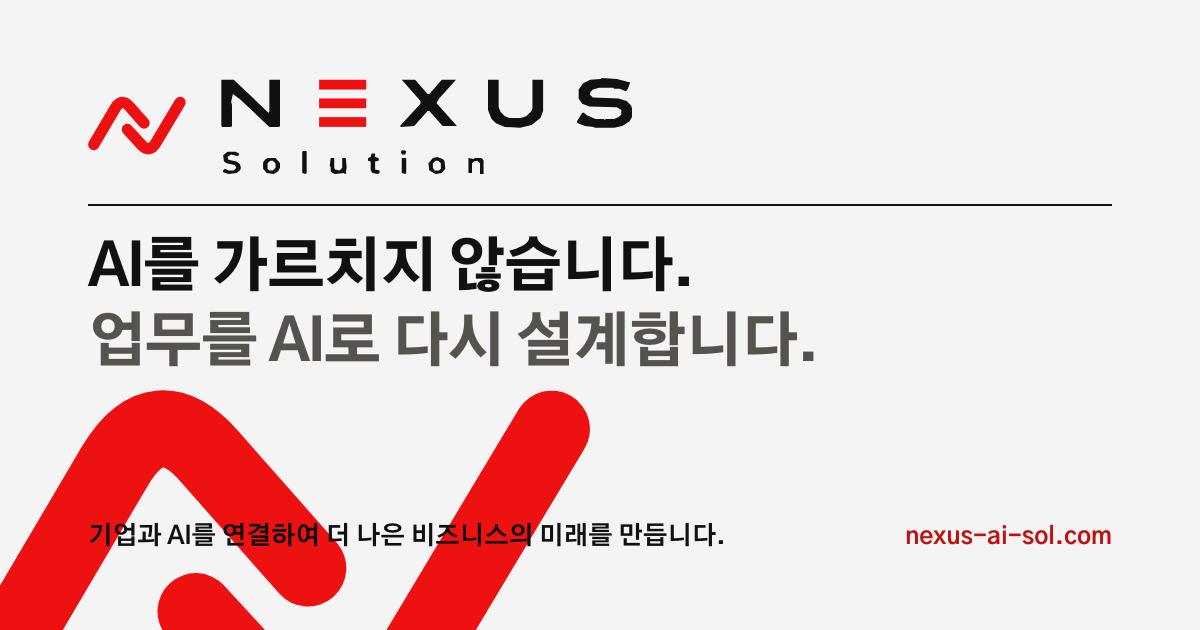
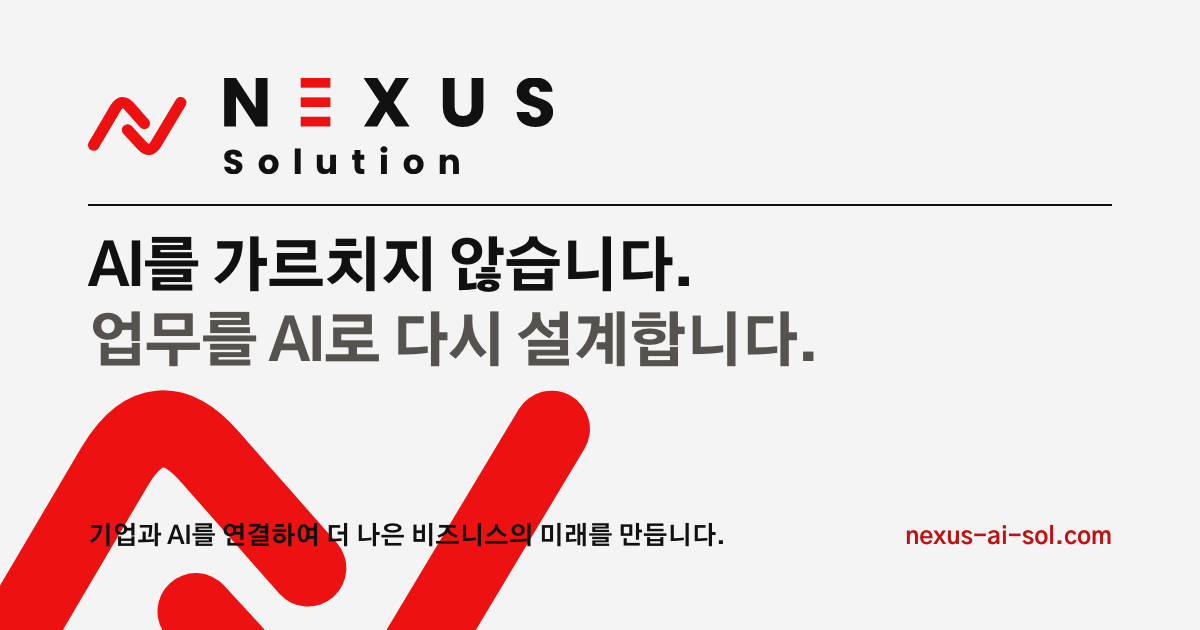
Typeset the wordmark in Poppins Bold outlines
The letters were still traced polygons, so their curves stayed faceted —
most visible in the S and in white on the dark theme. Matching the
original face proved unreliable (NEXUS scanned as a grotesque, Solution
as a geometric), so on request switch to a chosen face rather than
guessing.

Poppins Bold: geometric and monoline, echoing the round-capped mark, and
heavy enough to hold the original's presence at small sizes. Glyphs are
extracted to paths with fontTools, so the files carry no font dependency.
The red E now takes its width from the face's own E and divides the cap
height into five equal bands.

Changed region(s): [[0.185, 0.1206, 0.5242, 0.2111], [0.185, 0.2413, 0.4008, 0.2714], [0.1233, 0.181, 0.1542, 0.2111]]

diff --git a/index.html b/index.html
@@ -234,13 +234,7 @@ footer {
 
   <header>
     <div class="brand-mark">
-      <svg class="logo" xmlns="http://www.w3.org/2000/svg" viewBox="0 0 612 108" role="img" aria-label="Nexus Solution">
-<g transform="translate(-19 -20)"><g fill="none" stroke="#EE1111" stroke-width="12.78" stroke-linecap="round" stroke-linejoin="round"><path d="M25.6 94.8 L49.8 53.7 Q56.8 42 65.7 52.2 L82 70.7"/><path d="M63.3 77.9 L78.9 94.9 Q88.2 105 95.2 93.2 L122.6 47.5"/></g></g>
-  <g transform="translate(128 -145)">
-    <path fill="currentColor" fill-rule="evenodd" d="M 300.0 235.0 L 300.0 252.0 L 304.0 252.0 L 304.0 241.0 L 306.0 239.0 L 310.0 238.0 L 313.0 241.0 L 313.0 253.0 L 317.0 253.0 L 317.0 238.0 L 316.0 236.0 L 314.0 235.0 L 307.0 235.0 L 306.0 236.0 Z M 225.0 235.0 L 225.0 252.0 L 229.0 253.0 L 230.0 252.0 L 230.0 235.0 Z M 145.0 235.0 L 144.0 244.0 L 145.0 245.0 L 145.0 250.0 L 147.0 252.0 L 150.0 253.0 L 160.0 252.0 L 161.0 253.0 L 163.0 252.0 L 162.0 251.0 L 163.0 246.0 L 162.0 235.0 L 158.0 235.0 L 158.0 246.0 L 155.0 249.0 L 150.0 248.0 L 149.0 246.0 L 149.0 235.0 Z M 71.0 237.0 L 69.0 240.0 L 69.0 247.0 L 73.0 252.0 L 81.0 253.0 L 86.0 250.0 L 88.0 246.0 L 88.0 241.0 L 83.0 235.0 L 74.0 235.0 Z M 77.0 238.0 L 80.0 238.0 L 83.0 241.0 L 83.0 246.0 L 80.0 249.0 L 76.0 249.0 L 74.0 247.0 L 74.0 241.0 Z M 265.0 234.0 L 260.0 235.0 L 255.0 241.0 L 256.0 249.0 L 263.0 253.0 L 270.0 252.0 L 274.0 247.0 L 273.0 238.0 L 271.0 236.0 Z M 263.0 238.0 L 266.0 238.0 L 269.0 241.0 L 269.0 247.0 L 267.0 249.0 L 262.0 249.0 L 260.0 246.0 L 260.0 241.0 Z M 191.0 230.0 L 190.0 234.0 L 187.0 235.0 L 187.0 238.0 L 190.0 239.0 L 190.0 249.0 L 192.0 252.0 L 198.0 253.0 L 200.0 252.0 L 200.0 249.0 L 195.0 248.0 L 195.0 239.0 L 199.0 238.0 L 199.0 235.0 L 195.0 234.0 L 195.0 230.0 Z M 29.0 228.0 L 24.0 232.0 L 25.0 239.0 L 28.0 241.0 L 37.0 243.0 L 39.0 246.0 L 36.0 249.0 L 30.0 249.0 L 26.0 247.0 L 24.0 249.0 L 24.0 251.0 L 30.0 253.0 L 39.0 252.0 L 43.0 249.0 L 44.0 246.0 L 43.0 242.0 L 39.0 239.0 L 30.0 237.0 L 29.0 234.0 L 33.0 231.0 L 41.0 233.0 L 42.0 230.0 L 38.0 228.0 Z M 114.0 227.0 L 113.0 228.0 L 113.0 252.0 L 117.0 253.0 L 118.0 252.0 L 118.0 227.0 Z M 226.0 226.0 L 224.0 228.0 L 225.0 231.0 L 229.0 231.0 L 230.0 227.0 Z M 322.0 147.0 L 322.0 181.0 L 326.0 191.0 L 331.0 196.0 L 341.0 200.0 L 358.0 201.0 L 371.0 198.0 L 381.0 190.0 L 384.0 182.0 L 384.0 147.0 L 372.0 147.0 L 372.0 179.0 L 371.0 182.0 L 365.0 188.0 L 359.0 190.0 L 346.0 190.0 L 341.0 188.0 L 336.0 183.0 L 334.0 178.0 L 334.0 147.0 Z M 225.0 147.0 L 246.0 171.0 L 246.0 174.0 L 223.0 199.0 L 224.0 200.0 L 239.0 199.0 L 254.0 182.0 L 256.0 182.0 L 271.0 199.0 L 287.0 199.0 L 264.0 173.0 L 267.0 168.0 L 286.0 147.0 L 270.0 147.0 L 256.0 163.0 L 254.0 163.0 L 240.0 147.0 Z M 22.0 147.0 L 22.0 199.0 L 23.0 200.0 L 33.0 200.0 L 34.0 199.0 L 34.0 175.0 L 33.0 172.0 L 35.0 163.0 L 43.0 169.0 L 76.0 200.0 L 87.0 200.0 L 88.0 199.0 L 88.0 147.0 L 76.0 147.0 L 76.0 183.0 L 75.0 184.0 L 36.0 147.0 Z M 429.0 151.0 L 424.0 158.0 L 424.0 168.0 L 428.0 174.0 L 436.0 177.0 L 467.0 178.0 L 472.0 181.0 L 472.0 186.0 L 469.0 189.0 L 464.0 191.0 L 455.0 191.0 L 453.0 192.0 L 452.0 191.0 L 443.0 191.0 L 433.0 187.0 L 430.0 184.0 L 428.0 184.0 L 422.0 194.0 L 423.0 196.0 L 431.0 199.0 L 441.0 200.0 L 442.0 201.0 L 464.0 201.0 L 473.0 199.0 L 481.0 194.0 L 484.0 189.0 L 484.0 179.0 L 483.0 176.0 L 478.0 171.0 L 469.0 168.0 L 440.0 167.0 L 437.0 164.0 L 437.0 161.0 L 440.0 158.0 L 447.0 156.0 L 463.0 156.0 L 464.0 157.0 L 470.0 157.0 L 477.0 160.0 L 479.0 158.0 L 482.0 150.0 L 467.0 146.0 L 450.0 145.0 L 449.0 146.0 L 437.0 147.0 Z"/>
-    <g fill="#EE1111"><rect x="132" y="147" width="53" height="11"/><rect x="132" y="168" width="53" height="11"/><rect x="132" y="189" width="53" height="11"/></g>
-  </g>
-      </svg>
+      <svg class="logo" xmlns="http://www.w3.org/2000/svg" viewBox="0 0 518.5 107.0" role="img" aria-label="Nexus Solution"><g transform="translate(-19.21 -20.00)"><g fill="none" stroke="#EE1111" stroke-width="12.78" stroke-linecap="round" stroke-linejoin="round"><path d="M25.6 94.8 L49.8 53.7 Q56.8 42 65.7 52.2 L82 70.7"/><path d="M63.3 77.9 L78.9 94.9 Q88.2 105 95.2 93.2 L122.6 47.5"/></g></g><g transform="translate(129.78 -146.00)"><g fill="currentColor"><path d="M70.3076923076923 200.0H57.15384615384616L35.15384615384615 166.69230769230768V200.0H22.0V146.0H35.15384615384615L57.15384615384616 179.46153846153845V146.0H70.3076923076923Z"/><path d="M213.38461538461542 200.0 202.38461538461542 183.46153846153845 192.69230769230774 200.0H177.7692307692308L195.07692307692312 172.53846153846155L177.38461538461542 146.0H192.69230769230774L203.53846153846158 162.30769230769232L213.07692307692312 146.0H228.00000000000006L210.84615384615387 173.23076923076923L228.69230769230774 200.0Z"/><path d="M278.84615384615387 146.0V178.30769230769232Q278.84615384615387 183.15384615384616 281.2307692307693 185.76923076923077Q283.61538461538464 188.3846153846154 288.2307692307693 188.3846153846154Q292.84615384615387 188.3846153846154 295.3076923076924 185.76923076923077Q297.76923076923083 183.15384615384616 297.76923076923083 178.30769230769232V146.0H310.92307692307696V178.23076923076923Q310.92307692307696 185.46153846153845 307.8461538461539 190.46153846153845Q304.76923076923083 195.46153846153845 299.5769230769231 198.0Q294.3846153846154 200.53846153846155 288.00000000000006 200.53846153846155Q281.61538461538464 200.53846153846155 276.5769230769231 198.03846153846155Q271.53846153846155 195.53846153846155 268.61538461538464 190.5Q265.69230769230774 185.46153846153845 265.69230769230774 178.23076923076923V146.0Z"/><path d="M347.92307692307696 183.84615384615384H361.92307692307696Q362.2307692307693 186.84615384615384 364.00000000000006 188.4230769230769Q365.76923076923083 190.0 368.61538461538464 190.0Q371.5384615384616 190.0 373.2307692307693 188.65384615384616Q374.92307692307696 187.30769230769232 374.92307692307696 184.92307692307693Q374.92307692307696 182.92307692307693 373.5769230769231 181.61538461538464Q372.2307692307693 180.30769230769232 370.26923076923083 179.46153846153845Q368.3076923076924 178.6153846153846 364.69230769230774 177.53846153846155Q359.4615384615385 175.92307692307693 356.1538461538462 174.30769230769232Q352.84615384615387 172.69230769230768 350.46153846153845 169.53846153846155Q348.0769230769231 166.3846153846154 348.0769230769231 161.30769230769232Q348.0769230769231 153.76923076923077 353.53846153846155 149.5Q359.00000000000006 145.23076923076923 367.76923076923083 145.23076923076923Q376.69230769230774 145.23076923076923 382.1538461538462 149.5Q387.61538461538464 153.76923076923077 388.00000000000006 161.3846153846154H373.76923076923083Q373.61538461538464 158.76923076923077 371.84615384615387 157.26923076923077Q370.0769230769231 155.76923076923077 367.3076923076924 155.76923076923077Q364.92307692307696 155.76923076923077 363.4615384615385 157.03846153846155Q362.00000000000006 158.30769230769232 362.00000000000006 160.69230769230768Q362.00000000000006 163.30769230769232 364.4615384615385 164.76923076923077Q366.92307692307696 166.23076923076923 372.1538461538462 167.9230769230769Q377.3846153846154 169.69230769230768 380.6538461538462 171.3076923076923Q383.92307692307696 172.9230769230769 386.3076923076924 176.0Q388.69230769230774 179.07692307692307 388.69230769230774 183.92307692307693Q388.69230769230774 188.53846153846155 386.3461538461539 192.30769230769232Q384.00000000000006 196.07692307692307 379.53846153846155 198.30769230769232Q375.0769230769231 200.53846153846155 369.00000000000006 200.53846153846155Q363.0769230769231 200.53846153846155 358.3846153846154 198.6153846153846Q353.69230769230774 196.69230769230768 350.8846153846154 192.9230769230769Q348.0769230769231 189.15384615384616 347.92307692307696 183.84615384615384Z"/><path d="M22.0 244.92307692307693H29.0Q29.153846153846153 246.42307692307693 30.038461538461537 247.21153846153845Q30.92307692307692 248.0 32.34615384615385 248.0Q33.80769230769231 248.0 34.65384615384615 247.3269230769231Q35.5 246.65384615384616 35.5 245.46153846153845Q35.5 244.46153846153845 34.82692307692308 243.80769230769232Q34.15384615384615 243.15384615384616 33.17307692307692 242.73076923076923Q32.19230769230769 242.30769230769232 30.384615384615383 241.76923076923077Q27.769230769230766 240.96153846153845 26.115384615384613 240.15384615384613Q24.46153846153846 239.34615384615384 23.269230769230766 237.76923076923077Q22.076923076923077 236.19230769230768 22.076923076923077 233.65384615384616Q22.076923076923077 229.8846153846154 24.807692307692307 227.75Q27.538461538461537 225.6153846153846 31.92307692307692 225.6153846153846Q36.38461538461539 225.6153846153846 39.11538461538461 227.75Q41.84615384615385 229.8846153846154 42.03846153846153 233.69230769230768H34.92307692307692Q34.84615384615385 232.3846153846154 33.96153846153847 231.6346153846154Q33.07692307692308 230.8846153846154 31.692307692307693 230.8846153846154Q30.5 230.8846153846154 29.76923076923077 231.51923076923077Q29.03846153846154 232.15384615384616 29.03846153846154 233.34615384615384Q29.03846153846154 234.65384615384616 30.26923076923077 235.3846153846154Q31.5 236.1153846153846 34.11538461538461 236.96153846153845Q36.730769230769226 237.84615384615384 38.36538461538461 238.65384615384613Q40.0 239.46153846153845 41.19230769230769 241.0Q42.38461538461539 242.53846153846155 42.38461538461539 244.96153846153845Q42.38461538461539 247.26923076923077 41.21153846153846 249.15384615384616Q40.03846153846153 251.03846153846155 37.80769230769231 252.15384615384616Q35.57692307692308 253.26923076923077 32.53846153846154 253.26923076923077Q29.576923076923077 253.26923076923077 27.23076923076923 252.30769230769232Q24.884615384615383 251.34615384615384 23.48076923076923 249.46153846153845Q22.076923076923077 247.57692307692307 22.0 244.92307692307693Z"/><path d="M60.38461538461539 242.26923076923077Q60.38461538461539 238.96153846153845 61.84615384615385 236.44230769230768Q63.30769230769231 233.92307692307693 65.84615384615384 232.5769230769231Q68.38461538461539 231.23076923076923 71.53846153846153 231.23076923076923Q74.6923076923077 231.23076923076923 77.23076923076923 232.5769230769231Q79.76923076923077 233.92307692307693 81.23076923076923 236.44230769230768Q82.6923076923077 238.96153846153845 82.6923076923077 242.26923076923077Q82.6923076923077 245.57692307692307 81.21153846153845 248.09615384615384Q79.73076923076923 250.6153846153846 77.17307692307692 251.96153846153845Q74.61538461538461 253.30769230769232 71.46153846153847 253.30769230769232Q68.3076923076923 253.30769230769232 65.78846153846153 251.96153846153845Q63.26923076923077 250.6153846153846 61.82692307692308 248.1153846153846Q60.38461538461539 245.6153846153846 60.38461538461539 242.26923076923077ZM76.0 242.26923076923077Q76.0 239.69230769230768 74.71153846153845 238.30769230769232Q73.42307692307692 236.92307692307693 71.53846153846153 236.92307692307693Q69.61538461538461 236.92307692307693 68.34615384615384 238.28846153846155Q67.07692307692308 239.65384615384616 67.07692307692308 242.26923076923077Q67.07692307692308 244.84615384615384 68.32692307692308 246.23076923076923Q69.57692307692308 247.6153846153846 71.46153846153847 247.6153846153846Q73.34615384615384 247.6153846153846 74.67307692307692 246.23076923076923Q76.0 244.84615384615384 76.0 242.26923076923077Z"/><path d="M107.26923076923077 224.53846153846155V253.0H100.6923076923077V224.53846153846155Z"/><path d="M146.65384615384616 231.53846153846155V253.0H140.0769230769231V250.07692307692307Q139.0769230769231 251.5 137.36538461538464 252.3653846153846Q135.65384615384616 253.23076923076923 133.5769230769231 253.23076923076923Q131.1153846153846 253.23076923076923 129.23076923076923 252.1346153846154Q127.34615384615385 251.03846153846155 126.30769230769232 248.96153846153845Q125.26923076923077 246.8846153846154 125.26923076923077 244.07692307692307V231.53846153846155H131.80769230769232V243.19230769230768Q131.80769230769232 245.34615384615384 132.92307692307693 246.53846153846155Q134.03846153846155 247.73076923076923 135.92307692307693 247.73076923076923Q137.84615384615384 247.73076923076923 138.96153846153845 246.53846153846155Q140.0769230769231 245.34615384615384 140.0769230769231 243.19230769230768V231.53846153846155Z"/><path d="M178.19230769230768 247.42307692307693V253.0H174.84615384615384Q171.26923076923077 253.0 169.26923076923077 251.25Q167.26923076923077 249.5 167.26923076923077 245.53846153846155V237.0H164.65384615384616V231.53846153846155H167.26923076923077V226.30769230769232H173.84615384615384V231.53846153846155H178.15384615384616V237.0H173.84615384615384V245.6153846153846Q173.84615384615384 246.57692307692307 174.30769230769232 247.0Q174.76923076923077 247.42307692307693 175.84615384615384 247.42307692307693Z"/><path d="M196.1923076923077 225.76923076923077Q196.1923076923077 224.23076923076923 197.28846153846155 223.21153846153845Q198.3846153846154 222.19230769230768 200.1153846153846 222.19230769230768Q201.80769230769232 222.19230769230768 202.90384615384616 223.21153846153845Q204.0 224.23076923076923 204.0 225.76923076923077Q204.0 227.26923076923077 202.90384615384616 228.28846153846155Q201.80769230769232 229.30769230769232 200.1153846153846 229.30769230769232Q198.3846153846154 229.30769230769232 197.28846153846155 228.28846153846155Q196.1923076923077 227.26923076923077 196.1923076923077 225.76923076923077ZM203.3846153846154 231.53846153846155V253.0H196.80769230769232V231.53846153846155Z"/><path d="M222.0 242.26923076923077Q222.0 238.96153846153845 223.46153846153845 236.44230769230768Q224.92307692307693 233.92307692307693 227.46153846153845 232.5769230769231Q230.0 231.23076923076923 233.15384615384616 231.23076923076923Q236.30769230769232 231.23076923076923 238.84615384615387 232.5769230769231Q241.3846153846154 233.92307692307693 242.84615384615387 236.44230769230768Q244.30769230769232 238.96153846153845 244.30769230769232 242.26923076923077Q244.30769230769232 245.57692307692307 242.8269230769231 248.09615384615384Q241.34615384615387 250.6153846153846 238.78846153846155 251.96153846153845Q236.23076923076925 253.30769230769232 233.0769230769231 253.30769230769232Q229.92307692307693 253.30769230769232 227.40384615384616 251.96153846153845Q224.8846153846154 250.6153846153846 223.44230769230768 248.1153846153846Q222.0 245.6153846153846 222.0 242.26923076923077ZM237.61538461538464 242.26923076923077Q237.61538461538464 239.69230769230768 236.3269230769231 238.30769230769232Q235.03846153846155 236.92307692307693 233.15384615384616 236.92307692307693Q231.23076923076925 236.92307692307693 229.96153846153848 238.28846153846155Q228.6923076923077 239.65384615384616 228.6923076923077 242.26923076923077Q228.6923076923077 244.84615384615384 229.9423076923077 246.23076923076923Q231.1923076923077 247.6153846153846 233.0769230769231 247.6153846153846Q234.96153846153848 247.6153846153846 236.28846153846155 246.23076923076923Q237.61538461538464 244.84615384615384 237.61538461538464 242.26923076923077Z"/><path d="M283.6538461538462 240.46153846153845V253.0H277.11538461538464V241.34615384615384Q277.11538461538464 239.19230769230768 276.0 238.0Q274.8846153846154 236.80769230769232 273.00000000000006 236.80769230769232Q271.11538461538464 236.80769230769232 270.0 238.0Q268.8846153846154 239.19230769230768 268.8846153846154 241.34615384615384V253.0H262.3076923076923V231.53846153846155H268.8846153846154V234.3846153846154Q269.8846153846154 232.96153846153845 271.5769230769231 232.1346153846154Q273.26923076923083 231.30769230769232 275.3846153846154 231.30769230769232Q279.1538461538462 231.30769230769232 281.4038461538462 233.75Q283.6538461538462 236.19230769230768 283.6538461538462 240.46153846153845Z"/></g><g fill="#EE1111"><rect x="107.31" y="146.00" width="33.08" height="10.80"/><rect x="107.31" y="167.60" width="33.08" height="10.80"/><rect x="107.31" y="189.20" width="33.08" height="10.80"/></g></g></svg>
     </div>
     <div class="brand-rule"></div>
     <p class="brand-tag">기업과 AI를 연결하여 더 나은 비즈니스의 미래를 만듭니다.</p>
